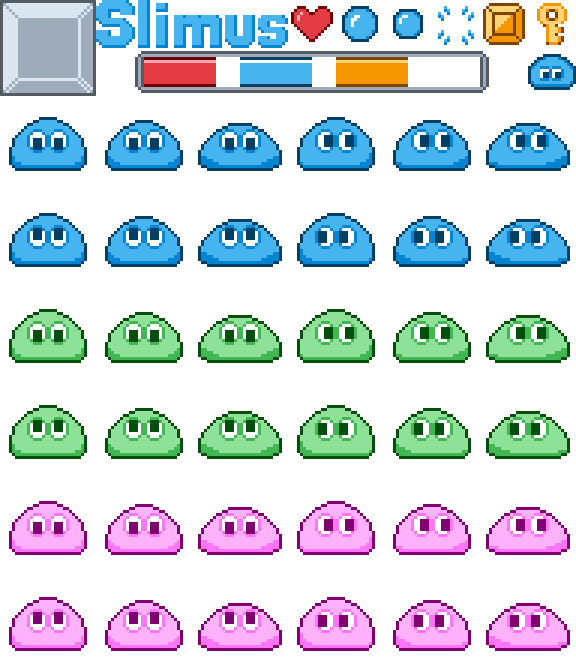
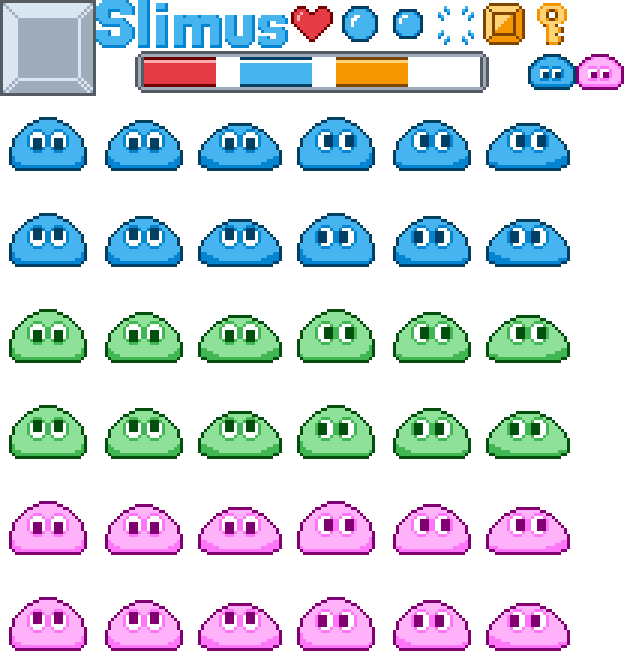
pink mini slime

diff --git a/Explorus/Game/SpritesManagement.cs b/Explorus/Game/SpritesManagement.cs
@@ -47,6 +47,7 @@ namespace Explorus.Game
                 { Sprites.emptyBar, new Rectangle(unit * 9, unit, unit, unit) },
                 { Sprites.rightBarTip, new Rectangle(unit * 10, unit, unit, unit) },
                 { Sprites.miniSlime, new Rectangle(unit * 11, unit, unit, unit) },
+                { Sprites.pinkMiniSlime, new Rectangle(unit * 12, unit, unit, unit) },
                 { Sprites.toxicSlimeDownLarge, new Rectangle(0, unit * 6, unit * 2, unit * 2) },
                 { Sprites.toxicSlimeDownMedium, new Rectangle(unit * 2, unit * 6, unit * 2, unit * 2) },
                 { Sprites.toxicSlimeDownSmall, new Rectangle(unit * 4, unit * 6, unit * 2, unit * 2) },

diff --git a/Explorus/Controllers/HeaderController.cs b/Explorus/Controllers/HeaderController.cs
@@ -115,7 +115,7 @@ namespace Explorus.Controllers
 
                 if(index == 1 || index == 3)
                 {
-                    components.Add(GetComponent(position, index == 1 ? Sprites.miniSlime : Sprites.miniSlime, bar.barName, "", true));
+                    components.Add(GetComponent(position, index == 1 ? Sprites.miniSlime : Sprites.pinkMiniSlime, bar.barName, "", true));
                     position++;
                 }
                 components.Add(GetComponent(position, bar.sprite, bar.barName, $"{bar.barName} icon", true));

diff --git a/Explorus/Models/SpriteFactory.cs b/Explorus/Models/SpriteFactory.cs
@@ -62,7 +62,8 @@ namespace Explorus.Models
         yellowBarHalf,
         emptyBar,
         rightBarTip,
-        miniSlime
+        miniSlime,
+        pinkMiniSlime
     }
     internal class SpriteFactory
     {
